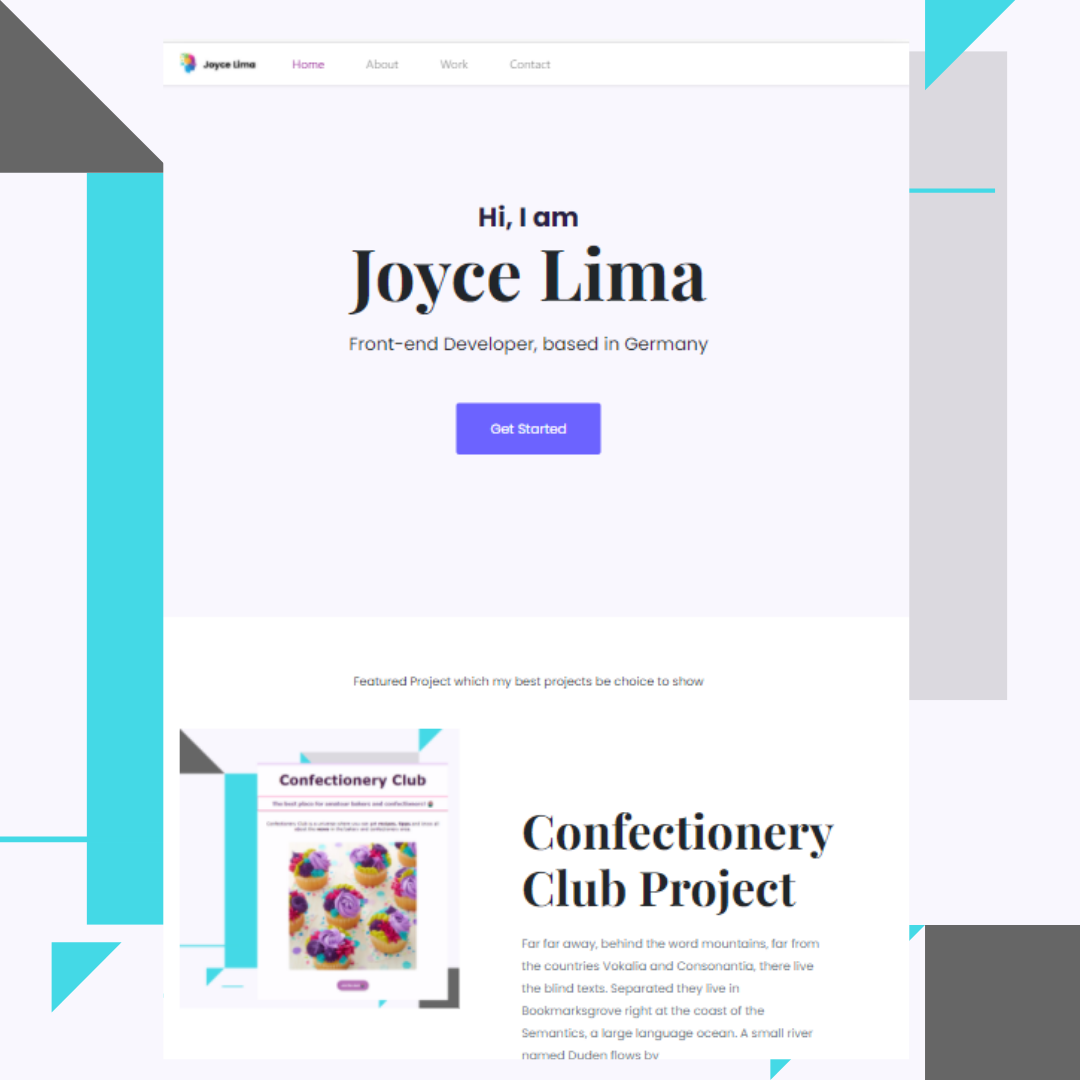
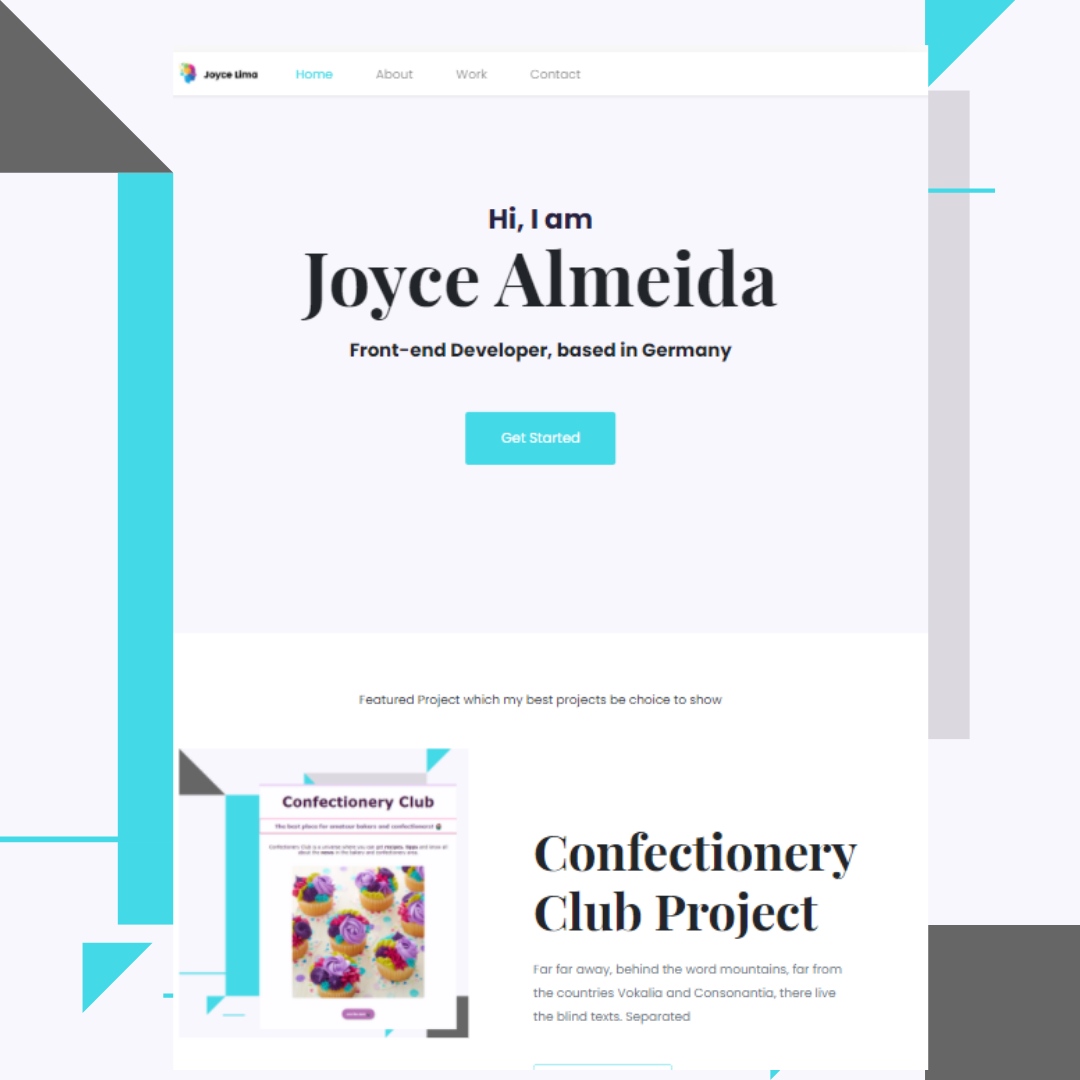
Fixed CSS

diff --git a/styles.css b/styles.css
@@ -1,23 +1,31 @@
 /** @format */
-h1 {
-  font-size: 96px;
+:root {
+  --branding-color:#44d9e6;
+  --secondary-color:#6c63ff;
+  --heading-font-family: "Playfair Display", serif;
+  --default-font-family: "Poppins", sans-serif;
+
+}
+body{
+  font-family: var(--default-font-family);
+}
+h1,h2,h4{
+  font-family: var(--heading-font-family);
   font-weight: bold;
-  font-family: "Playfair Display", serif;
+}
+h1 {
+  font-size: 96px; 
 }
 h2 {
   text-align: left;
-  font-size: 64px;
-  font-family: "Playfair Display", serif;
+  font-size: 64px;   
 }
 p {
-  text-align: left;
-  font-family: "poppins", sans-serif;
+  text-align: left;  
   font-size: 16px;
   line-height: 30px;
 }
-
-h4 {
-  font-family: "Playfair Display", serif;
+h4 {  
   font-size: 48px;
 }
 .hero {
@@ -27,9 +35,8 @@ h4 {
 }
 .hero p {
   text-align: center;
-  font-size: 36px;
-  font-family: "Poppins", sans-serif;
-  font-weight: bolder;
+  font-size: 36px;  
+  font-weight: bold;
   margin: 0;
   color: #272142;
 }
@@ -41,22 +48,19 @@ h4 {
 }
 
 .btn-branding {
-  font-family: "poppins", sans-serif;
-  background-color: #44d9e6;
-
+   background-color: var(--branding-color);
   color: white;
   padding: 20px 45px;
   font-size: 18px;
 }
 .btn-branding-projects {
-  font-family: "poppins", sans-serif;
-  background-color: white;
-  color: #6c63ff;
+    background-color: white;
+  color: var(--secondary-color);
 
   padding: 20px 45px;
   font-size: 16px;
   font-weight: 500;
-  border: 1px solid #6c63ff;
+  border: 1px solid var(--branding-color);
 }
 .app-description {
   padding: 120px 60px 0;
@@ -138,15 +142,12 @@ h4 {
 }
 .work {
   text-align: center;
-  font-size: 24px;
-  font-family: "Poppins", sans-serif;
+  font-size: 24px;  
   font-weight: bolder;
   margin: 0;
   color: #272142;
 }
-.contact {
-  font-family: "poppins", sans-serif;
-}
+
 .contact-container {
   background-color: #f9f7fe;
   padding: 50px;
@@ -156,8 +157,7 @@ h4 {
   margin: 0 auto;
   display: block;
   text-align: center;
-  font-family: "Poppins", sans-serif;
-  font-weight: bolder;
+    font-weight: bolder;
   margin: 0;
   color: #272142;
   font-size: 30px;
@@ -173,7 +173,7 @@ h4 {
 }
 
 .active {
-  color: purple !important;
+  color: var(--branding-color) !important;
 }
 
 .logo {
@@ -191,7 +191,7 @@ h4 {
   font-weight: bold;
 }
 .email-footer:hover {
-  color: #6c63ff;
+  color: var(--secondary-color);
 }
 .social-links a {
   margin: 0 20px 50px;
@@ -200,11 +200,11 @@ h4 {
   background-color: #f9f7fe;
   border-radius: 50%;
   transition: all 100ms ease-in-out;
-  color: #6c63ff;
+  color: var(--secondary-color);
 }
 .social-links a:hover {
   color: #f9f7fe;
-  background-color: #6c63ff;
+  background-color: var(--secondary-color);
 }
 .contact-footer {
   background-color: #f9f7fe;
@@ -213,5 +213,8 @@ h4 {
 }
 .code{
   text-decoration: none;
-  color:#6c63ff
+  color:var(--secondary-color);
+}
+.code:hover{
+  color: #44d9e6;
 }

diff --git a/index.html b/index.html
@@ -85,8 +85,7 @@
             <p class="mb-5 text-muted">
               Far far away, behind the word mountains, far from the countries
               Vokalia and Consonantia, there live the blind texts. Separated
-              they live in Bookmarksgrove right at the coast of the Semantics, a
-              large language ocean. A small river named Duden flows by
+       
             </p>
             <a href="https://quirky-khorana-a13eee.netlify.app/" class="btn btn-branding-projects" target="blank">Learn More</a>
           </div>
@@ -102,8 +101,7 @@
             <p class="mb-5 text-muted">
               Far far away, behind the word mountains, far from the countries
               Vokalia and Consonantia, there live the blind texts. Separated
-              they live in Bookmarksgrove right at the coast of the Semantics, a
-              large language ocean. A small river named Duden flows by
+             
             </p>
             <a href="https://jovial-ramanujan-9674df.netlify.app/" class="btn btn-branding-projects" target="blank">Learn More</a>
           </div>
@@ -125,8 +123,7 @@
             <p class="mb-5 text-muted">
               Far far away, behind the word mountains, far from the countries
               Vokalia and Consonantia, there live the blind texts. Separated
-              they live in Bookmarksgrove right at the coast of the Semantics, a
-              large language ocean. A small river named Duden flows by
+             
             </p>
             <a href="/work.html" class="btn btn-branding-projects mb-5">Learn More</a>
           </div>
